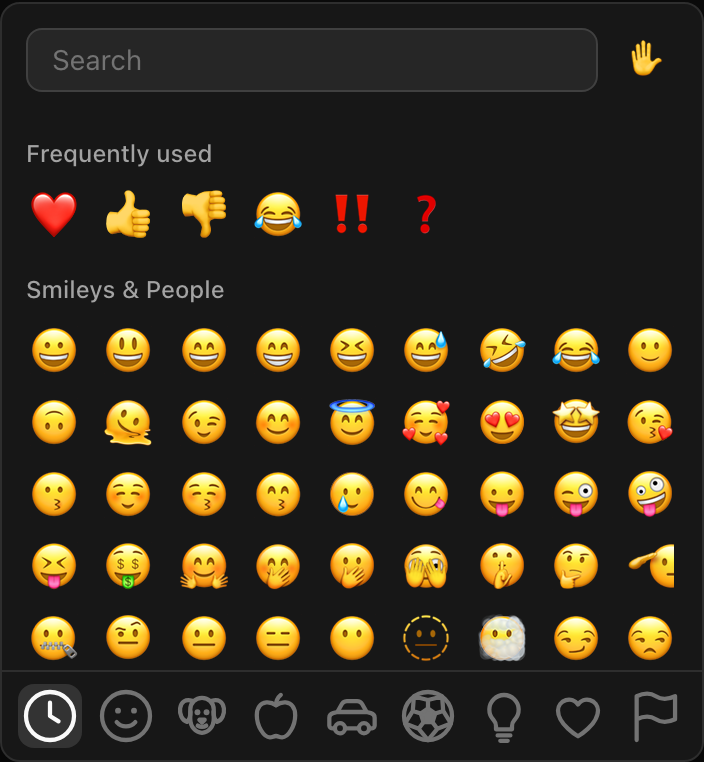
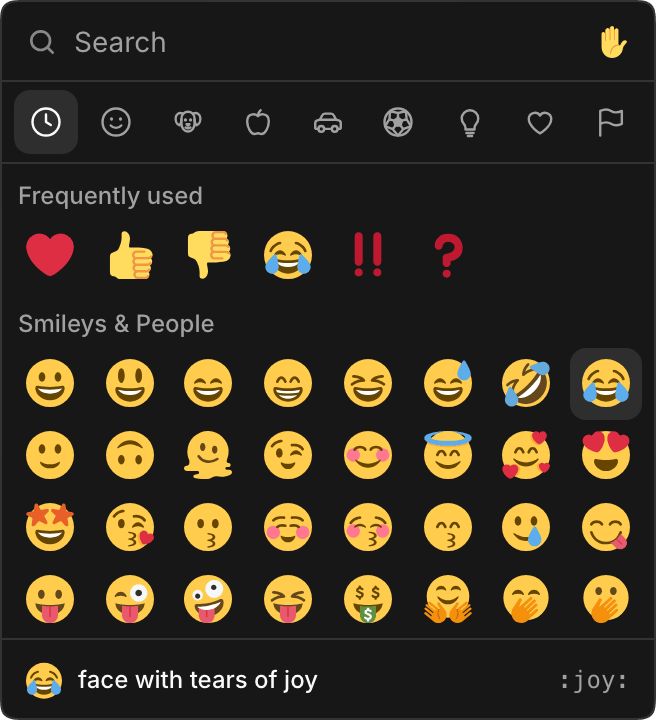
README hero: Twemoji screenshots of the shadcn picker, generated by npm run readme:hero

diff --git a/apps/demo/e2e/pages/hero/main.tsx b/apps/demo/e2e/pages/hero/main.tsx
@@ -1,0 +1,24 @@
+import { createRoot } from "react-dom/client";
+import en from "@brianhung/emoji-picker-data/en/iamcal.json?url";
+import { EmojiPicker, EmojiProvider } from "@brianhung/emoji-picker-react";
+import "@brianhung/emoji-picker-twemoji-font/twemoji.css";
+import { EmojiPickerCard } from "@/components/ui/emoji-picker";
+import "@/globals.css";
+
+document.documentElement.dataset.emojiFont = "twemoji";
+document.documentElement.classList.toggle("dark", matchMedia("(prefers-color-scheme: dark)").matches);
+
+createRoot(document.getElementById("root")!).render(
+  <main className="p-6">
+    <EmojiProvider data={en} renderer="native">
+      <EmojiPickerCard
+        className="shadow-none [&_[data-slot=emoji-picker-preview]>span:first-child]:[font-family:var(--emoji-font-family)]"
+        rows={
+          <EmojiPicker.CategoryNav className="flex shrink-0 justify-between border-b border-border px-1.5 py-1">
+            {() => <EmojiPicker.CategoryNav.Tab className="flex size-8 items-center justify-center rounded-md p-[7px] text-muted-foreground outline-none hover:bg-accent data-active:bg-accent data-active:text-foreground" />}
+          </EmojiPicker.CategoryNav>
+        }
+      />
+    </EmojiProvider>
+  </main>,
+);

diff --git a/apps/demo/vite.config.ts b/apps/demo/vite.config.ts
@@ -60,7 +60,9 @@ document.head.append(link);`;
     ],
   },
   environments: {
-    client: { build: { rollupOptions: { input: process.env.E2E_BUILD === "1" ? { ...pages, ...Object.fromEntries(["seams", "fonts"].map((p) => [p, fileURLToPath(new URL(`./e2e/pages/${p}/index.html`, import.meta.url))])) } : pages } } },
+    client: {
+      build: { rollupOptions: { input: process.env.E2E_BUILD === "1" ? { ...pages, ...Object.fromEntries(["seams", "fonts", "hero"].map((p) => [p, fileURLToPath(new URL(`./e2e/pages/${p}/index.html`, import.meta.url))])) } : pages } },
+    },
   },
   optimizeDeps: { entries: Object.values(pages) },
   server: { port: 5199, strictPort: true },

diff --git a/apps/demo/e2e/pages/hero/index.html b/apps/demo/e2e/pages/hero/index.html
@@ -1,0 +1,13 @@
+<!doctype html>
+<html lang="en">
+  <head>
+    <meta charset="utf-8" />
+    <meta name="viewport" content="width=device-width, initial-scale=1" />
+    <meta name="robots" content="noindex" />
+    <title>README hero</title>
+  </head>
+  <body>
+    <div id="root"></div>
+    <script type="module" src="./main.tsx"></script>
+  </body>
+</html>

diff --git a/README.md b/README.md
@@ -1,11 +1,11 @@
 <div align="center">
+  <h1>Emoji Picker</h1>
   <a href="https://emoji.brianhung.me">
     <picture>
       <source media="(prefers-color-scheme: dark)" srcset=".github/assets/picker-dark.png">
-      <img src=".github/assets/picker-light.png" width="352" alt="The emoji picker">
+      <img alt="Emoji picker" src=".github/assets/picker-light.png" width="328">
     </picture>
   </a>
-  <h1>Emoji Picker</h1>
   <p>A virtualized, unstyled, and composable emoji picker for React.</p>
   <p><a href="https://emoji.brianhung.me">Docs</a> · <a href="https://emoji.brianhung.me/gallery/">Gallery</a> · <a href="https://emoji.brianhung.me/examples/">Examples</a></p>
 </div>

diff --git a/packages/react/README.md b/packages/react/README.md
@@ -1,5 +1,10 @@
 # @brianhung/emoji-picker-react
 
+<picture>
+  <source media="(prefers-color-scheme: dark)" srcset="https://raw.githubusercontent.com/BrianHung/EmojiPicker/main/.github/assets/picker-dark.png">
+  <img alt="Emoji picker" src="https://raw.githubusercontent.com/BrianHung/EmojiPicker/main/.github/assets/picker-light.png" width="328">
+</picture>
+
 Unstyled React components for emoji pickers, reaction rows, and shortcode typeahead, built on [React Aria](https://react-spectrum.adobe.com/react-aria/).
 
 ## Installation
